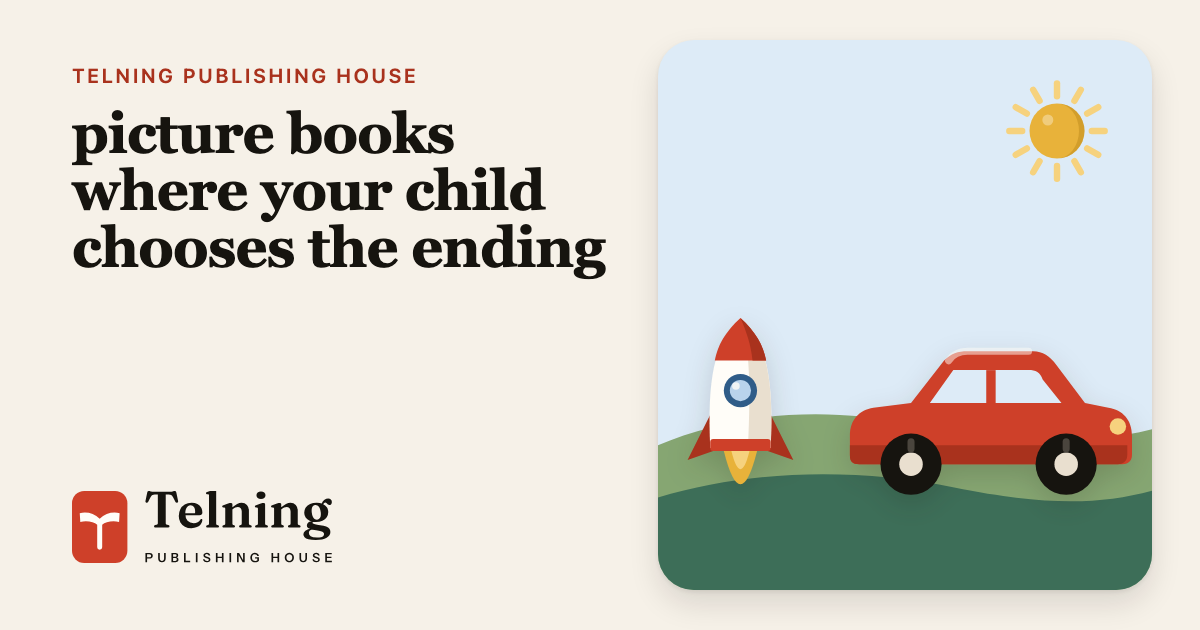
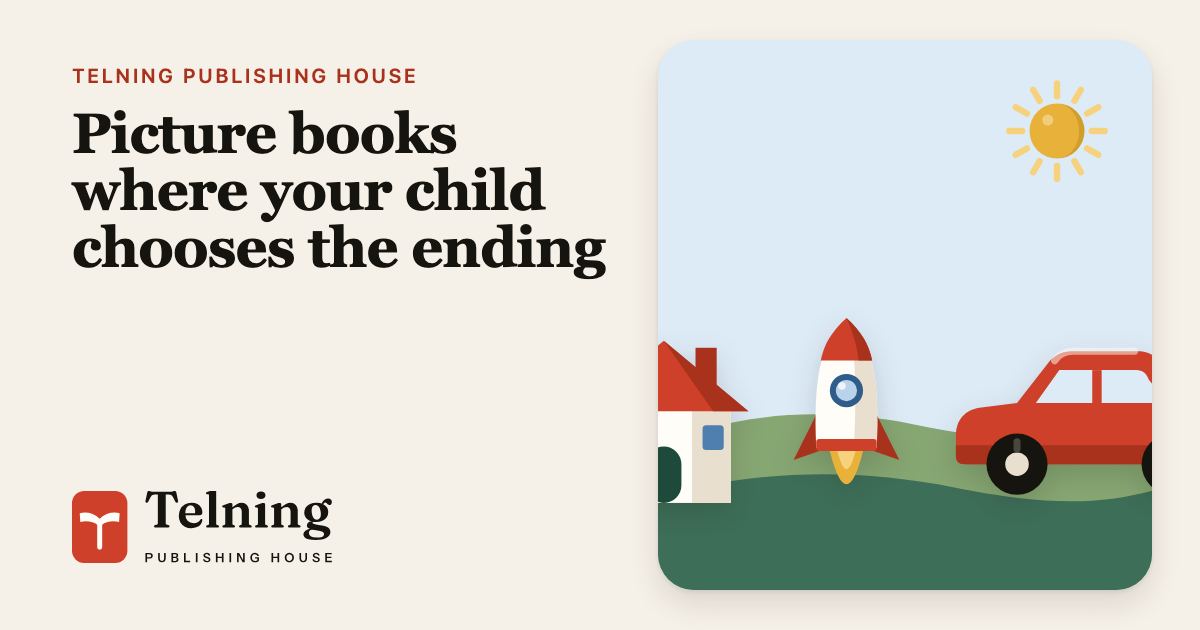
Docs, site-wide tests and OG titles
- README rewritten (layout, scripts, env vars, before going live); docs/components.md (changed and new components,
  pages, scroll-story mechanics); docs/design-system-notes.md (section 14 notes); BRAND.md updated (Toddler, Pim art,
  no language switch); seo-launch.md: Resend and Vercel env steps
- tests/site.spec.ts: no dead or coming-soon links, reduced motion shows final states with nothing animating,
  keyboard-only run through the /send form with focus rings, skip link and phone menu on every page
- OG titles capitalised

Changed region(s): [[0.5242, 0.5127, 0.9867, 0.8143], [0.0617, 0.181, 0.4008, 0.2714]]

diff --git a/tests/site.spec.ts b/tests/site.spec.ts
@@ -1,0 +1,85 @@
+// Site-wide checks (brief section 7): no dead internal links and no coming-soon links; reduced motion shows every
+// final state with nothing moving; the /send form and every page work keyboard-only with a visible focus ring.
+import { test, expect } from '@playwright/test';
+import { existsSync, readdirSync, readFileSync, statSync } from 'node:fs';
+import { join } from 'node:path';
+
+const DIST = 'dist';
+function* htmlFiles(dir: string): Generator<string> {
+  for (const f of readdirSync(dir)) { const p = join(dir, f); if (statSync(p).isDirectory()) yield* htmlFiles(p); else if (f.endsWith('.html')) yield p; }
+}
+const PAGES = ['/', '/tada', '/guide', '/send', '/about', '/pim', '/teachers', '/privacy', '/childrens-privacy', '/terms'];
+
+test('no dead internal links, no coming-soon links', () => {
+  const dead: string[] = [], soon: string[] = [];
+  for (const file of htmlFiles(DIST)) {
+    const html = readFileSync(file, 'utf8');
+    for (const m of html.matchAll(/<a [^>]*href="([^"]+)"/g)) {
+      const href = m[1];
+      if (!href.startsWith('/')) continue;
+      const path = href.split('#')[0].split('?')[0];
+      if (!path) continue;
+      if (/^\/series\/|^\/books/.test(path)) soon.push(`${file}: ${href}`);
+      if (path === '/api/story-card') continue;                      // the Vercel function, not a static file
+      const ok = path === '/' || existsSync(join(DIST, path.slice(1), 'index.html')) || existsSync(join(DIST, path.slice(1))) || existsSync(join(DIST, path.slice(1) + '.html'));
+      if (!ok) dead.push(`${file}: ${href}`);
+    }
+  }
+  expect(dead, 'dead links').toEqual([]);
+  expect(soon, 'links to coming-soon routes').toEqual([]);
+});
+
+test('reduced motion: final states shown, nothing animates', async ({ browser }) => {
+  const ctx = await browser.newContext({ reducedMotion: 'reduce', viewport: { width: 1280, height: 900 } });
+  const page = await ctx.newPage();
+  for (const path of ['/tada', '/guide', '/send', '/about', '/pim']) {
+    await page.goto(path);
+    await page.evaluate(() => document.fonts.ready);
+    const r = await page.evaluate(() => {
+      const views = [...document.querySelectorAll('.tn-view')].map((el) => getComputedStyle(el).getPropertyValue('--p').trim());
+      const running = document.getAnimations().filter((a) => a.playState === 'running').length;
+      const hidden = [...document.querySelectorAll('.tn-reveal, .tn-road__stop, .tn-book3d__leaf, .ss-plane, .ss-card')].filter((el) => getComputedStyle(el).opacity === '0' && !el.closest('[hidden]'));
+      return { views, running, hidden: hidden.length };
+    });
+    expect(r.views.every((v) => v === '1'), `${path}: --p is 1 on every story`).toBe(true);
+    expect(r.running, `${path}: running animations`).toBe(0);
+    expect(r.hidden, `${path}: elements left invisible`).toBe(0);
+  }
+  await ctx.close();
+});
+
+test('keyboard only: the send form fields are reachable with a visible focus ring', async ({ page }) => {
+  await page.goto('/send');
+  const seen = new Set<string>();
+  for (let i = 0; i < 160; i++) {
+    await page.keyboard.press('Tab');
+    const info = await page.evaluate(() => {
+      const el = document.activeElement as HTMLElement | null;
+      if (!el) return null;
+      const cs = getComputedStyle(el);
+      const ring = cs.outlineStyle !== 'none' && parseFloat(cs.outlineWidth) > 0;
+      const wrap = el.closest('.tn-radio, .tn-chip-opt, .tn-check');
+      const wrapRing = wrap ? getComputedStyle(wrap).outlineStyle !== 'none' : false;
+      return { id: el.id || el.getAttribute('name') || el.tagName, ring: ring || wrapRing || el.classList.contains('tn-photo__input') };
+    });
+    if (!info) continue;
+    seen.add(info.id);
+    if (['f-email', 'f-name', 'f-age', 'ending', 'consentGuardian', 'consentCard'].includes(info.id)) expect(info.ring, `focus ring on ${info.id}`).toBe(true);
+  }
+  for (const id of ['f-email', 'f-name', 'f-age', 'ending', 'f-photo', 'consentGuardian', 'consentCard', 'consentAnswers', 'consentShare']) expect(seen.has(id), `reached ${id}`).toBe(true);
+  expect([...seen].some((s) => s === 'BUTTON'), 'reached the submit button').toBe(true);
+});
+
+test('every page: skip link, one main, header menu works with the keyboard on phones', async ({ browser }) => {
+  const ctx = await browser.newContext({ viewport: { width: 375, height: 812 } });
+  const page = await ctx.newPage();
+  for (const path of PAGES) {
+    await page.goto(path);
+    await page.keyboard.press('Tab');
+    expect(await page.evaluate(() => document.activeElement?.className.includes('tn-skip')), `${path}: first Tab is the skip link`).toBe(true);
+    await page.keyboard.press('Tab'); await page.keyboard.press('Tab');     // lockup, then the menu button
+    await page.keyboard.press('Enter');
+    expect(await page.locator('#tn-nav').evaluate((n) => n.classList.contains('is-open')), `${path}: menu opens with Enter`).toBe(true);
+  }
+  await ctx.close();
+});

diff --git a/README.md b/README.md
@@ -1,39 +1,61 @@
 # Telning Publishing House: website
 
-Picture books for children 0–7, built around decision intelligence. This is the marketing site, built
-from the **Telning design system** (Claude Design): https://claude.ai/artifact/4aiKD3bXyxe7KAB9f6yERq
-
-Static site built with [Astro](https://astro.build). No UI framework; the interactivity (depth, tilt, reveal,
-phone menu, email form) is the small vanilla helper from the design system.
+Picture books for children 0–7, built around decision intelligence. This is the marketing site, built from the
+**Telning design system** (web version in `docs/telning-design-system.zip`). Static site built with
+[Astro](https://astro.build), hosted on Vercel (`telning.com`). No UI framework; the interactivity is the small
+vanilla helper `src/scripts/telning.js`.
 
 ## Run
 
 ```bash
 npm install
-npm run dev       # http://localhost:4321
-npm run build     # regenerates tokens.css, then builds to dist/
-npm run preview
+npm run dev          # http://localhost:4321
+npm run build        # tokens → astro build → sitemap → claims-lint → seo-check → legal-check
+npm run preview      # serves dist/ (the tests and the screenshot scripts use this)
+npm test             # build, privacy + function tests, Playwright (anchors, links, reduced motion, keyboard)
 ```
+
+Every build fails on a banned claim (`scripts/claims-lint.mjs`), an SEO miss (`scripts/seo-check.mjs`: title,
+description, H1, canonical, Open Graph, JSON-LD, sitemap, links, alt text, noindex rules) or, in a production build,
+an empty legal placeholder (`scripts/legal-check.mjs`).
 
 ## Layout
 
 | Path | What |
 | --- | --- |
 | `design/tokens.json` | Design tokens (source of truth). `npm run tokens` writes `src/styles/tokens.css`. |
-| `design/BRAND.md` | The brand book: rules, voice, safe/forbidden words, colour and type usage. Read it before writing copy. |
-| `src/styles/telning.css` | Component styles from the design system (`tn-` classes). |
-| `src/scripts/telning.js` | `window.Telning` helpers: `initDepth`, `initTilt`, `initReveal`, `initMenu`, `initEmail`. |
-| `src/data/site-data.json` | Facts that change: series, ages, skills, books, social links, `formEndpoint`. |
-| `src/data/strings.*.json` | UI text (EN ready; DE/SV keys present, empty). |
-| `src/components/` | Page sections: Header, Hero, AgeStrip, Series, Skills, TadaBand, SendEnding, TrustBand, EmailBlock, Footer. |
-| `public/fonts/` | Fraunces and Instrument Sans (SIL OFL), self-hosted. Never load them from Google. |
+| `design/BRAND.md` | The brand book: rules, voice, safe and banned words. Read it before writing copy. |
+| `docs/` | The brief (`telning-claude-code-prompt.md`), the research guideline (claims list), the print design system, the web design-system zip, `components.md` (what changed, what is new), `seo-keyword-map.md`, `seo-launch.md` (what to do in Vercel, Search Console, Bing). |
+| `src/data/site-data.json` | Facts that change: series, ages, books, social links, founder, team, story-card settings, legal placeholders, switches (`teamCreditOn`, `pim.art`, `pim.handDrawn`, `claims.firstApproved`). Empty = not known: hide it, never invent it. |
+| `src/data/seo.json` | One place for every page's title, description, dates, page type and OG image. |
+| `src/data/strings.en.json`, `src/data/pages/*.json` | Shared UI text and per-page copy. Page files are `_draft` until a person checks them. |
+| `src/layouts/Base.astro` | The `<head>` for every page (SEO, JSON-LD, preview = noindex). |
+| `src/components/` | Landing sections and the shared parts; see `docs/components.md`. |
+| `src/pages/` | `/`, `/tada`, `/guide`, `/send`, `/about`, `/pim`, `/teachers`, `/privacy`, `/childrens-privacy`, `/terms`, `404`. |
+| `src/styles/telning.css` | All styles (`tn-` classes), phone first. |
+| `art/` | The design system's objects, animals, science desk and logo SVGs; `art/pim/` the Pim art; `art/source/` the founder and Pim source files. |
+| `public/art/` | The Pim cut-out and the founder portrait (WebP + PNG). `public/og/` the Open Graph images. |
+| `api/story-card.js`, `server/story-card.js` | The "Send Pim your ending" Vercel function and its pure handler. |
+| `scripts/` | Build checks, `pim-cutout.py`, `pim-svg.py`, `founder-cutout.py`, `og.mjs`, `shots.mjs` (review screenshots), `indexnow.mjs`. |
+| `tests/` | Playwright (`anchors.spec.ts`, `site.spec.ts`) and node tests (`privacy.test.mjs`, `story-card-function.test.mjs`). |
+
+## Environment variables (Vercel → Settings → Environment Variables)
+
+| Name | What |
+| --- | --- |
+| `RESEND_API_KEY` | The email service for the story-card form. Until it is set the form answers "not open yet" (503) and nothing is lost silently. |
+| `STORY_CARD_INBOX` | The team inbox that receives each submission (or set `storyCard.inbox` in site data). |
+| `STORY_CARD_FROM` | The sender, e.g. `Pim <pim@telning.com>` (the domain must be verified in Resend). |
+| `STORY_CARD_MODE` | `manual` (default) or `auto` (the Claude API drafts Pim's lines and the note; a person still finishes). |
+| `ANTHROPIC_API_KEY` | Auto mode only. Server-side only, never in the browser. |
+
+`VERCEL_ENV` is set by Vercel: preview builds are `noindex`, production never.
 
 ## Before going live
 
-- **Art slots**: Pim and the series art come from the illustrator. In `npm run dev` empty slots show the file
-  they wait for (`pim-hello.png`, `pim-letter.png`, `pim-question.png`, `series-*.png`, `story-card-example.png`).
-  The brand rules say the site must not go live with an empty slot.
-- **Email signup**: set `formEndpoint` in `src/data/site-data.json`. While it is empty the form only pretends to submit.
-- **Other pages**: the design covers the home page only. Links to `/books`, `/series/*`, `/tada`, `/guide`, `/send`,
-  `/pim`, `/about`, `/teachers`, `/privacy`, `/childrens-privacy`, `/terms` need pages. `/guide` and `/send`
-  are printed in the books as QR codes, so those addresses must never change.
+- Fill the legal placeholders in `site-data.json` (`legal.orgNumber`, `legal.address`, `contactEmail`,
+  `storyCard.emailService`, `storyCard.inbox`): the production build stops while they are empty.
+- `formEndpoint` is empty: the email sign-up forms only pretend to submit until an endpoint exists.
+- `/guide` and `/send` are printed in the books as QR codes: those addresses never change, and they carry no shop
+  links, prices, or the words gift, reward, prize, win, free (claims-lint checks).
+- Follow `docs/seo-launch.md` (www redirect, Search Console, Bing).

diff --git a/docs/components.md b/docs/components.md
@@ -1,0 +1,85 @@
+# Telning website components: what changed and what is new (site v2, October 2026)
+
+The design-system zip (`docs/telning-design-system.zip`) holds the original component READMEs. This file records
+the changes the site v2 work made, and documents every new page and component. The repo's living code is in
+`src/components`, `src/pages`, `src/data` and `src/styles/telning.css`.
+
+## Changed components
+
+**Header.** No language switch any more: the site has one language (`<html lang="en">` stays; `languages: { en: "ready" }`).
+On phones the menu button is the hamburger icon only (no badge), 44 px tap area, screen readers hear "Menu".
+Links are `/#ages`, `/#series`, `/#skills`, `/guide`, `/about`; the current page gets `aria-current="page"`.
+
+**Footer.** Instagram, TikTok and LinkedIn from site data `social` (shown only when set), in that order, icon + name,
+no boxes: colour change on hover, 44 px tap area, focus ring kept. On phones the footer is smaller: 13 px links,
+tighter spacing, 20 px icons in one row, more room under the walking animals. The icons live in `socialIcons.ts`.
+
+**SeriesWorlds (Series.astro + WorldCard.astro).** A card is a link only when the series' `status` is `out`;
+otherwise a `<div>` with the soft grey "Coming soon" pill (`tn-pill--soft`), no tilt, no lift, not in the tab order.
+Screen readers hear "Home & Hearts, Family & friends, Coming soon". The intro line was removed.
+
+**AgeStrip.** Data-driven from `ages` and `books`: a card links to `/books?age=…` only when a book of that age is
+out; otherwise the soft pill. "Find by age"; "Toddler, ages 0–3".
+
+**Pill.** New `tn-pill--soft` (paper-deep / ink-soft) for "Coming soon". Pills are 11–12 px.
+
+**LandingPage.** Hero button "Our publications" → `#series`; link "The TADA method" → `#tada` (the TADA band has
+`id="tada"`). Intro lines under "Our series" and "Decision intelligence at the heart" removed. Pim appears in the hero
+greeting, the skills note and "Letters from Pim". The "send your ending" card holds a crayon drawing (KidDrawing).
+
+**TrustBand.** Link reads "About us" → `/about`.
+
+**BookCover.** Redesigned: the whole cover in the series colour, a scene from the Objects library (65 %), the series
+name on a cream title plate with the colophon, spine edge, page edges, token shadow, small idle motion. Reads at
+120 px. `coverImage` replaces the scene when the illustrator's cover exists. Not a link.
+
+**PimNote, ArtSlot, Objects.** Pim's art exists now: `Pim.astro` (poses full / portrait / peek; `pim.art` switch
+between the paper SVG and the cut-out image; one motion at most). PimNote uses the portrait in a sky-light disc.
+Code still never invents a different Pim or a series main character; the Objects library stays decoration only.
+New objects: star, road, chair, bubble-q, mailbox. `Obj.astro` inlines any art file with colour tokens and can
+recolour one token per use (`swap`).
+
+**EmailBlock.** Takes props (`id`, `tag` news | guide | teacher, texts) and posts its tag; used on `/`, `/guide`,
+`/teachers`.
+
+## New components
+
+| Component | What it is |
+|---|---|
+| `Obj.astro` | Inline paper object/animal from `art/` with tokens; `swap` recolours; `flat` removes the drop shadow. |
+| `Pim.astro`, `PimNote.astro` | Pim (see above) and the note with the bubble. |
+| `BookCover.astro`, `WorldCard.astro` | The covers and the series cards. |
+| `KidDrawing.astro` | A child-like crayon drawing (never Pim) for cards and scenes. |
+| `StoryCard.astro` | The story card (print design section 12 in web tokens); `sample` adds the label. |
+| `PageHero.astro`, `Breadcrumbs.astro` | Inner-page opening: breadcrumbs, kicker, H1 (the LCP, never animated), lead, own paper scene. |
+| `Faq.astro` | `<details>` questions (text stays in the HTML); pages add the FAQPage JSON-LD. |
+| `LegalPage.astro` | The calm legal layout (envelope scene, table of contents, sections, "Last updated", staging draft label). |
+
+## New pages
+
+Each page's copy lives in `src/data/pages/<page>.json`, marked `_draft` until a person checks it. Titles,
+descriptions, dates and page types are in `src/data/seo.json`.
+
+| Page | Signature scroll story | Notes |
+|---|---|---|
+| `/tada` | The paper road: stops T, A, D (fork + signpost), A (frame where a crayon drawing draws itself). | Article JSON-LD with citations; sources from the guideline only; team line only when `teamCreditOn`. |
+| `/guide` | The open book whose pages turn, one TADA object per leaf (sticky on desktop). | QR page: no gift/reward/prize/win/free (claims-lint). Guide sign-up (tag `guide`); download when `guidePdf` is set. FAQPage JSON-LD. |
+| `/send` | Drawing → envelope → paper plane → Pim at the mailbox → card flies back. | The form (brief 5.1) with crop/rotate/zoom; privacy words = the real flow; FAQPage JSON-LD. QR page rules. |
+| `/about` | Seed → shoot → tree beside the timeline. | Founder note (portrait in an arched paper frame, letter card, LinkedIn + email, Person JSON-LD). Team cards only from site data. |
+| `/pim` | A crayon scribble fills a big leaf. | "Made by hand" section only when `pim.handDrawn` and `illustratorName` are set. |
+| `/teachers` | Children's drawings clip onto a string one by one. | "SEL" and "speech therapists" allowed here. Teacher pack sign-up (tag `teacher`). |
+| `/privacy`, `/childrens-privacy`, `/terms` | — | From `legal.json`; placeholders from site data; `legal-check` stops a production build while one is empty. |
+| `404` | — | Pim sits and blinks. Real 404 status, not in the sitemap, no redirect. |
+
+## Scroll stories: how they work
+
+`Telning.initView` gives every `.tn-view` element a `--p` from 0 (top edge enters at the bottom of the viewport) to 1
+(bottom edge leaves at the top). CSS turns `--p` into transforms and opacity, only under `.tn-js`, so the final state
+shows without JavaScript; under `prefers-reduced-motion` `--p` is 1 and nothing moves. Only `transform`, `opacity`
+and `stroke-dashoffset` animate. Native `animation-timeline: view()` can be layered on later; one JS path was chosen
+so every browser behaves the same.
+
+## Motion rules kept
+
+UI controls keep `--move` (220 ms). Idle motion: one or two objects per section. Pim: the stars twinkle, or the eye
+blinks (404), never both. Everything stops under reduced motion (`tests/site.spec.ts` checks).

diff --git a/design/BRAND.md b/design/BRAND.md
@@ -4,7 +4,7 @@ The look is a **paper theatre**: a premium publisher (Fraunces, warm paper, ink,
 
 ## Rules
 
-1. **Objects and cute animals, never characters.** Code may draw the paper objects and decorative animals in this system (balloons, cars, blocks, the signpost, the fox, the owl…; animals with simple dot eyes). Never Pim, a series main character or a book page: those come from the human illustrator, through art slots.
+1. **Objects and cute animals, never characters.** Code may draw the paper objects and decorative animals in this system (balloons, cars, blocks, the signpost, the fox, the owl…; animals with simple dot eyes). Never a series main character or a book page: those come from the human illustrator, through art slots. Pim comes from the approved Pim art (`art/pim/`, `Pim.astro`); code never invents a different Pim.
 2. **Decision intelligence first.** It is named first and shown biggest wherever skills appear. The other three skills sit beside it, never above it.
 3. **Pim speaks for Telning.** First person, warm, one short sentence, about choosing. Pim never makes a claim and never gives advice about a child's health.
 4. **Safe words only** (see Words). Describe what the child does; never promise a result.
@@ -41,7 +41,7 @@ The colophon (an open book forming a "T" and a young tree, cream in a red rounde
 
 ## Series, ages, skills
 
-Series (with the plain theme word shown under each name, for search): Home & Hearts (family & friends), Paws & Claws (animals), Star Hoppers (space), Little Gardeners (flowers & nature), Big Days (celebrations), The Toy Box (toys), Little Kitchen (food & cooking), Funny Pages (cartoons), Round the Year (months & seasons), Game On (sports), Everyday Heroes (superheroes), On the Move (cars, planes & balloons). Names live in the site data and can change; check each for trademarks before print. Ages: 0–3 Baby and toddler, 3–5 Preschool, 5–7 Early school. Skills: Decision intelligence (the heart), then Emotional intelligence, Social skills, Behavioural skills.
+Series (with the plain theme word shown under each name, for search): Home & Hearts (family & friends), Paws & Claws (animals), Star Hoppers (space), Little Gardeners (flowers & nature), Big Days (celebrations), The Toy Box (toys), Little Kitchen (food & cooking), Funny Pages (cartoons), Round the Year (months & seasons), Game On (sports), Everyday Heroes (superheroes), On the Move (cars, planes & balloons). Names live in the site data and can change; check each for trademarks before print. Ages: 0–3 Toddler, 3–5 Preschool, 5–7 Early school. Skills: Decision intelligence (the heart), then Emotional intelligence, Social skills, Behavioural skills.
 
 ## Components
 
@@ -49,4 +49,4 @@ Logo, Objects, PimNote, Button (and link), Pill, BookCover, BookCard, SeriesWorl
 
 ## Site data and text
 
-`assets/Site data/site-data.json` holds every fact that can change (series, ages, skills, books, links, switches); `strings.en.json` holds all English text (`strings.de.json`, `strings.sv.json` share the keys). A language shows in the switch only when marked `ready`.
+`src/data/site-data.json` holds every fact that can change (series, ages, skills, books, links, switches, founder, story-card settings); `src/data/strings.en.json` holds the shared English text and `src/data/pages/*.json` the page copy, marked draft until a person checks it (`strings.de.json`, `strings.sv.json` share the keys). The site has one language; there is no language switch.

diff --git a/docs/seo-launch.md b/docs/seo-launch.md
@@ -11,6 +11,15 @@ Simple steps, in order. Tick each one. Claude Code did the code side; the steps 
 - [ ] **Firewall.** Vercel → Project → Firewall. Make sure no rule challenges or blocks the search and AI bots in `robots.txt` (Googlebot, Bingbot, Applebot, OAI-SearchBot, ChatGPT-User, PerplexityBot, Perplexity-User, Claude-SearchBot, Claude-User, and the training bots GPTBot, ClaudeBot, Google-Extended, Applebot-Extended, CCBot). "Bot Protection" and "Attack Challenge Mode" should stay off, or allow-list these bots.
 - [ ] **Deploy** the `site-v2-pages` branch (merge to `main`). Check `https://telning.com/robots.txt`, `/sitemap.xml` and `/llms.txt` open.
 
+## A2. Vercel environment variables (for the story-card form) — once
+
+- [ ] Create a free account at https://resend.com, add and verify the domain `telning.com` (Resend shows the DNS records: add them at your DNS provider), then create an API key.
+- [ ] Vercel → Project → Settings → Environment Variables (Production and Preview):
+      `RESEND_API_KEY` = the key · `STORY_CARD_INBOX` = the team inbox, e.g. `cards@telning.com` · `STORY_CARD_FROM` = `Pim <pim@telning.com>`.
+      Until the key exists the form says "The story-card post box is not open yet"; nothing is lost silently.
+- [ ] In `src/data/site-data.json` set `storyCard.emailService` to `Resend` and `storyCard.inbox`: the privacy notices name the service.
+- [ ] Later, for auto mode: `STORY_CARD_MODE=auto` and `ANTHROPIC_API_KEY`. A person still finishes every card.
+
 ## B. Google Search Console — once
 
 1. [ ] Open https://search.google.com/search-console → Add property → **Domain** → `telning.com`.

diff --git a/docs/design-system-notes.md b/docs/design-system-notes.md
@@ -1,0 +1,17 @@
+# Notes for `telning-design-system.md` (print design system v2.0), section 14 "Website"
+
+The website follows the **web** design system (the zip: Fraunces + Instrument Sans, the paper/cream/ink/red/forest
+tokens), not the colours and fonts in section 14 of the print document. Three things to add to section 14:
+
+1. **No language switch.** The site has one language (English). German and Swedish string files exist with empty
+   values; nothing shows until a person writes them and marks the language `ready`.
+2. **Web motion exception.** The rule "movement slow and small (200 ms)" applies to controls. Each inner page has one
+   signature scroll story (a scene that changes as the reader scrolls) and small idle motion on one or two objects.
+   Everything stands still under `prefers-reduced-motion`, and the final state is always visible without JavaScript.
+3. **Pim art exists.** Pim on the website comes from the approved Pim file (paper SVG, three poses). Code never
+   invents a different Pim. The "Pim is white, the child gives Pim colour" line from section 6 is about the printed
+   books; on the website Pim is the sandy, leaf-spined, three-star character. Nothing on the site says Pim is
+   hand-drawn until the owner confirms it (`pim.handDrawn`).
+
+Also: ages on the site are 0–3 Toddler, 3–5 Preschool, 5–7 Early school (the print documents say 3–7 for the
+books; the owner keeps the 0–3 card on the site).
